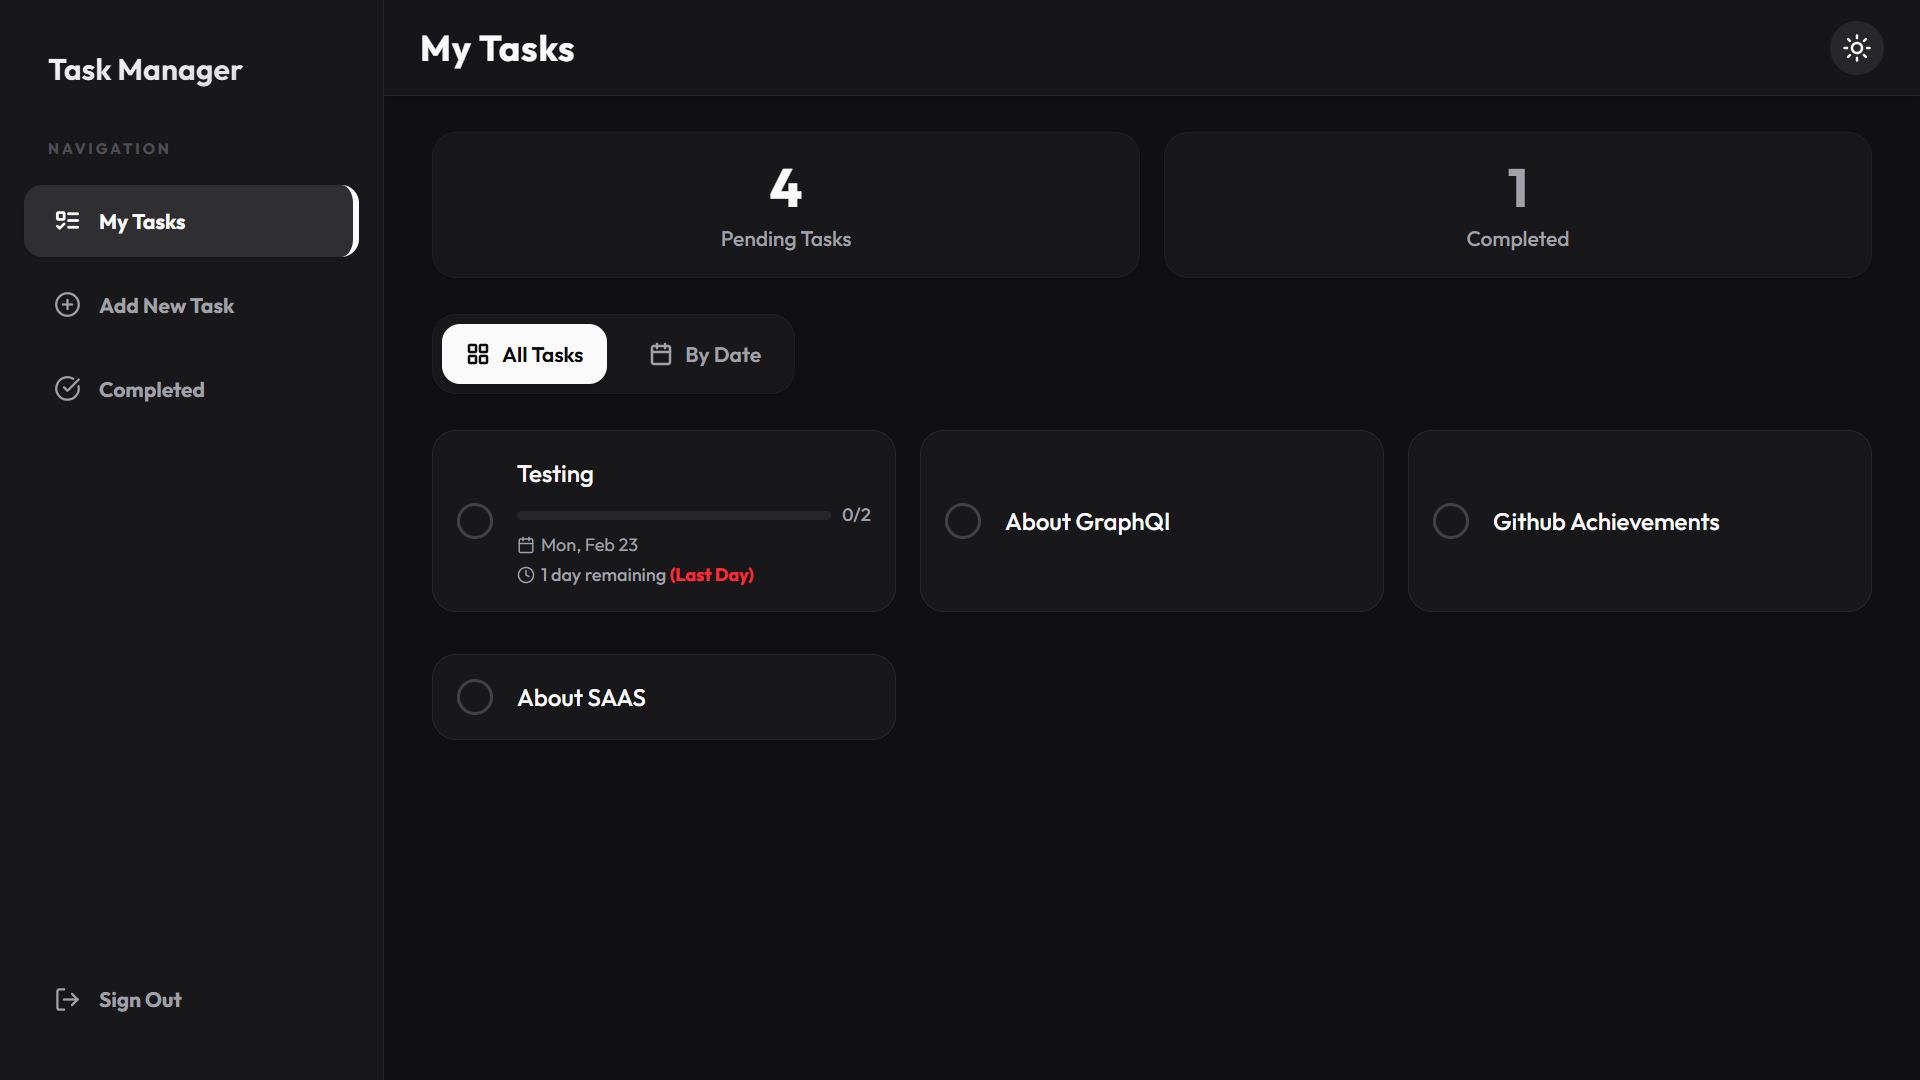
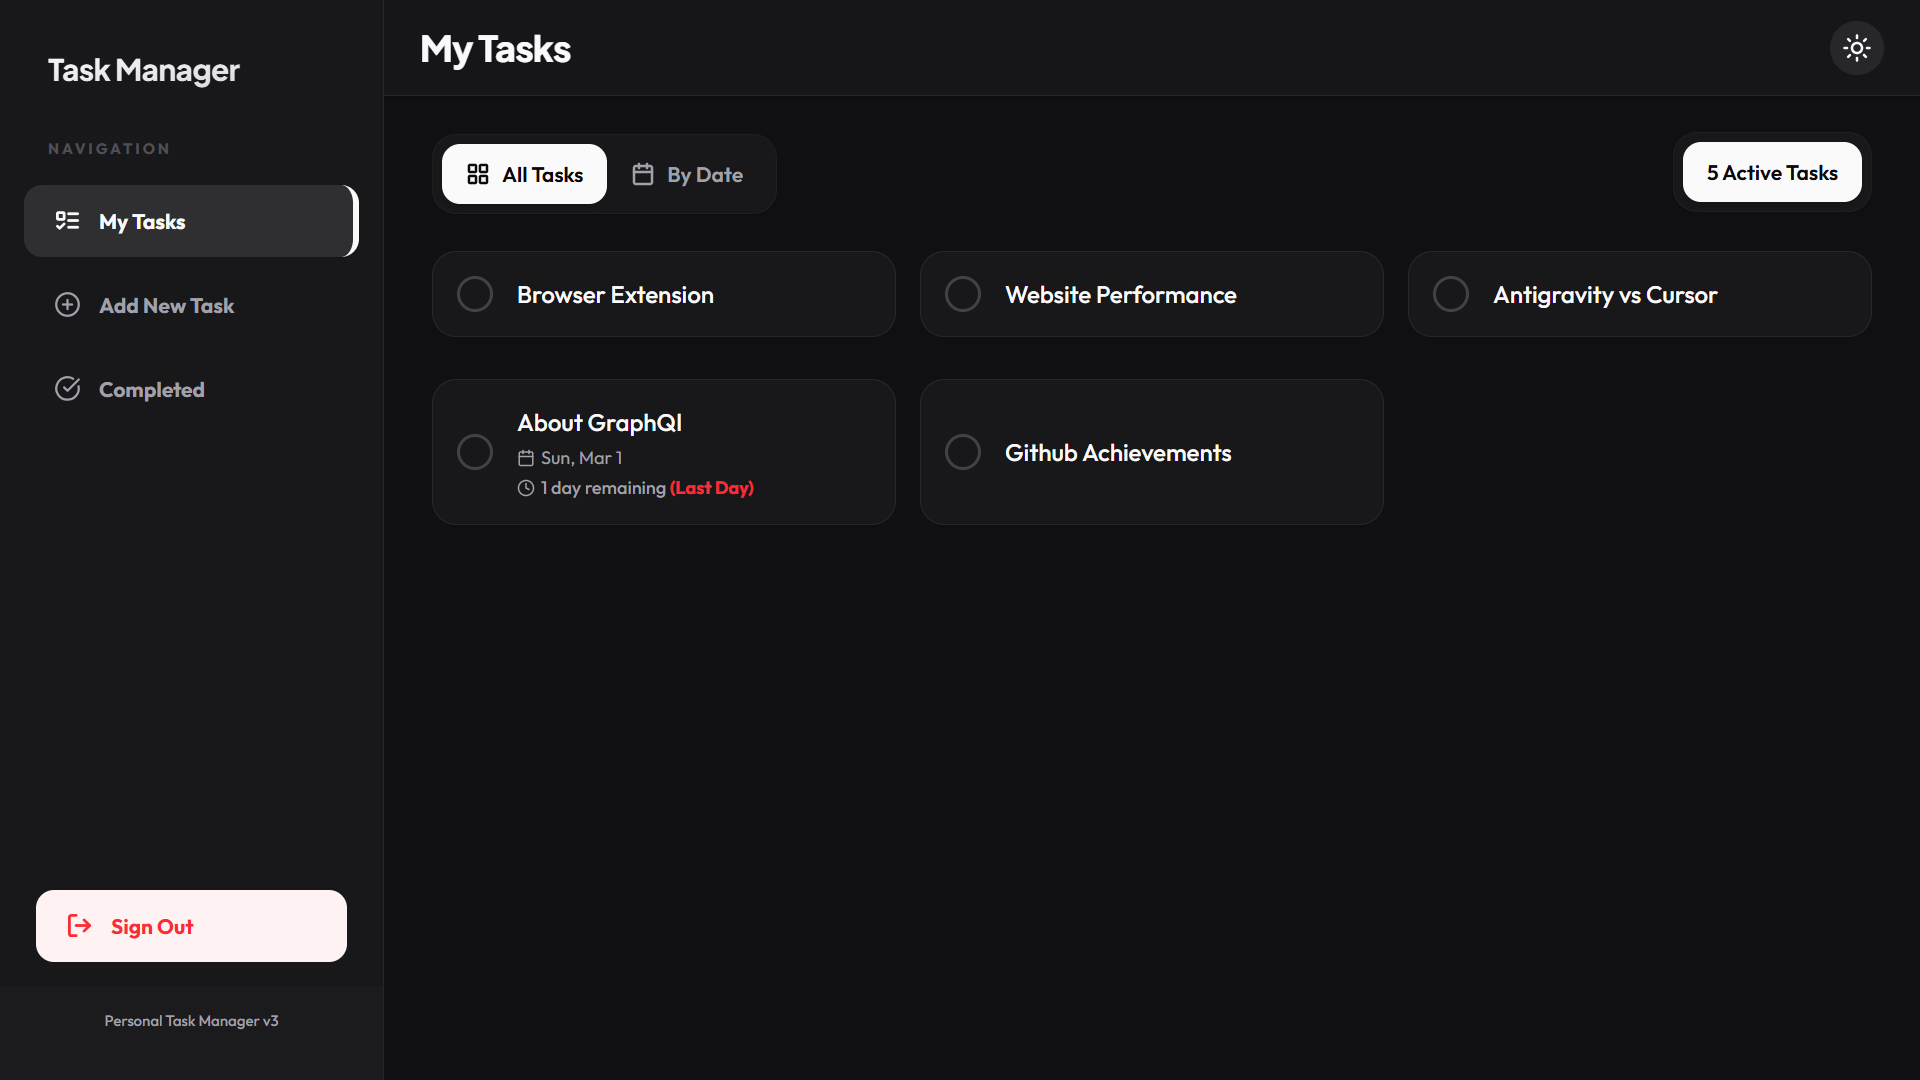
feat: refactor mobile navigation, align Active Tasks UI add Edit Task back button, and update README

diff --git a/src/components/Navbar.jsx b/src/components/Navbar.jsx
@@ -36,30 +36,6 @@ export default function Navbar() {
 
   return (
     <>
-      {/* Mobile Bottom Navigation Bar */}
-      <nav className="md:hidden fixed bottom-0 left-0 right-0 h-16 bg-surface/90 backdrop-blur-xl border-t border-border flex items-center justify-around px-2 z-50 pb-safe shadow-[0_-4px_12px_-1px_rgba(0,0,0,0.05)]">
-        {mainNavItems.map(({ to, icon: Icon, label }) => (
-          <NavLink
-            key={to}
-            to={to}
-            className={({ isActive }) =>
-              cn(
-                "flex flex-col items-center justify-center space-y-1 transition-all w-1/3 py-1",
-                isActive ? "text-primary scale-105" : "text-muted-foreground"
-              )
-            }
-          >
-            {({ isActive }) => (
-              <>
-                <Icon size={22} strokeWidth={isActive ? 2.5 : 2} />
-                <span className="text-[10px] font-bold uppercase tracking-tighter truncate w-full text-center px-1">
-                  {label}
-                </span>
-              </>
-            )}
-          </NavLink>
-        ))}
-      </nav>
 
       {/* Mobile Sidebar Overlay */}
       <AnimatePresence>
@@ -86,7 +62,7 @@ export default function Navbar() {
           >
             <div className="p-6 border-b border-border flex justify-between items-center bg-primary/5">
               <span className="text-sm font-black uppercase tracking-widest text-primary">
-                Account Settings
+                Navigation
               </span>
               <button
                 onClick={closeMobileSidebar}
@@ -98,6 +74,32 @@ export default function Navbar() {
             </div>
 
             <div className="flex-1 p-6 flex flex-col">
+              {/* Navigation Links */}
+              <div className="space-y-2 pt-2">
+                {mainNavItems.map(({ to, icon: Icon, label }) => (
+                  <NavLink
+                    key={to}
+                    to={to}
+                    onClick={closeMobileSidebar}
+                    className={({ isActive }) =>
+                      cn(
+                        "flex items-center space-x-3 w-full py-3.5 px-5 rounded-xl transition-all font-bold",
+                        isActive
+                          ? "text-primary bg-primary/10 shadow-sm"
+                          : "text-muted-foreground hover:text-primary hover:bg-surface-hover"
+                      )
+                    }
+                  >
+                    {({ isActive }) => (
+                      <>
+                        <Icon size={18} strokeWidth={isActive ? 2.5 : 2} />
+                        <span className="text-sm">{label}</span>
+                      </>
+                    )}
+                  </NavLink>
+                ))}
+              </div>
+
               <div className="mt-auto pt-6 border-t border-border">
                 <button
                   onClick={handleLogout}
@@ -110,7 +112,7 @@ export default function Navbar() {
             </div>
 
             <div className="p-6 bg-muted/20 text-[10px] text-center text-muted-foreground font-medium">
-              Personal Task Manager v2.0
+              Personal Task Manager v3
             </div>
           </motion.div>
         )}
@@ -119,7 +121,10 @@ export default function Navbar() {
       {/* Desktop Sidebar */}
       <nav className="hidden md:flex flex-col w-64 h-screen bg-surface border-r border-border sticky top-0 shrink-0 shadow-[4px_0_12px_-1px_rgba(0,0,0,0.02)]">
         <div className="p-8">
-          <h1 className="text-xl font-black bg-linear-to-br from-primary to-accent bg-clip-text text-transparent">
+          <h1
+            className="text-xl font-extrabold bg-linear-to-br from-primary to-accent bg-clip-text text-transparent tracking-tight"
+            style={{ fontFamily: "'Plus Jakarta Sans', sans-serif" }}
+          >
             Task Manager
           </h1>
         </div>
@@ -151,14 +156,19 @@ export default function Navbar() {
           ))}
         </div>
 
-        <div className="p-4 mt-auto space-y-2 pb-8">
-          <button
-            onClick={handleLogout}
-            className="flex items-center space-x-3 w-full py-3 px-5 rounded-xl text-muted-foreground hover:text-red-500 hover:bg-red-500/10 transition-all font-bold"
-          >
-            <LogOut size={18} />
-            <span className="text-sm">Sign Out</span>
-          </button>
+        <div className="mt-auto flex flex-col">
+          <div className="p-4 px-6">
+            <button
+              onClick={handleLogout}
+              className="flex items-center space-x-3 w-full py-3.5 px-5 rounded-xl text-red-500 bg-red-50 hover:bg-red-500 hover:text-white transition-all font-bold"
+            >
+              <LogOut size={18} strokeWidth={2.5} />
+              <span className="text-sm">Sign Out</span>
+            </button>
+          </div>
+          <div className="p-4 pb-8 bg-muted/20 text-[10px] text-center text-muted-foreground font-medium">
+            Personal Task Manager v3
+          </div>
         </div>
       </nav>
     </>

diff --git a/src/pages/Home.jsx b/src/pages/Home.jsx
@@ -12,7 +12,6 @@ export default function Home() {
   const [filterMode, setFilterMode] = useState("all"); // 'all' or 'by-date'
 
   const activeTasks = tasks.filter((t) => !t.completed);
-  const completedTasks = tasks.filter((t) => t.completed);
 
   // Group tasks by date
   const groupTasksByDate = (tasksList) => {
@@ -63,52 +62,42 @@ export default function Home() {
         </div>
       ) : activeTasks.length > 0 ? (
         <div className="space-y-6">
-          {/* Stats Dashboard */}
-          <div className="grid grid-cols-2 gap-4">
-            <div className="bg-surface p-4 rounded-2xl border border-border/50 shadow-sm flex flex-col items-center justify-center text-center">
-              <span className="text-4xl font-bold text-primary mb-1">
-                {activeTasks.length}
-              </span>
-              <span className="text-sm text-muted-foreground font-medium">
-                Pending Tasks
-              </span>
+          {/* Filter Toggle + Active Tasks */}
+          <div className="flex flex-col md:flex-row md:items-center md:justify-between gap-3">
+            {/* Filter Toggle */}
+            <div className="flex items-center bg-surface p-1.5 rounded-2xl border border-border/50 shadow-sm w-fit">
+              <button
+                onClick={() => setFilterMode("all")}
+                className={cn(
+                  "flex items-center gap-2 px-4 py-2.5 rounded-xl font-semibold text-sm transition-all duration-200",
+                  filterMode === "all"
+                    ? "bg-primary text-primary-foreground shadow-md"
+                    : "text-muted-foreground hover:text-primary hover:bg-surface-hover"
+                )}
+              >
+                <LayoutGrid size={16} strokeWidth={2.5} />
+                <span>All Tasks</span>
+              </button>
+              <button
+                onClick={() => setFilterMode("by-date")}
+                className={cn(
+                  "flex items-center gap-2 px-4 py-2.5 rounded-xl font-semibold text-sm transition-all duration-200",
+                  filterMode === "by-date"
+                    ? "bg-primary text-primary-foreground shadow-md"
+                    : "text-muted-foreground hover:text-primary hover:bg-surface-hover"
+                )}
+              >
+                <Calendar size={16} strokeWidth={2.5} />
+                <span>By Date</span>
+              </button>
             </div>
-            <div className="bg-surface p-4 rounded-2xl border border-border/50 shadow-sm flex flex-col items-center justify-center text-center">
-              <span className="text-4xl font-bold text-muted-foreground mb-1">
-                {completedTasks.length}
-              </span>
-              <span className="text-sm text-muted-foreground font-medium">
-                Completed
-              </span>
-            </div>
-          </div>
 
-          {/* Filter Toggle */}
-          <div className="flex items-center gap-3 bg-surface p-1.5 rounded-2xl border border-border/50 shadow-sm w-fit">
-            <button
-              onClick={() => setFilterMode("all")}
-              className={cn(
-                "flex items-center gap-2 px-4 py-2.5 rounded-xl font-semibold text-sm transition-all duration-200",
-                filterMode === "all"
-                  ? "bg-primary text-primary-foreground shadow-md"
-                  : "text-muted-foreground hover:text-primary hover:bg-surface-hover"
-              )}
-            >
-              <LayoutGrid size={16} strokeWidth={2.5} />
-              <span>All Tasks</span>
-            </button>
-            <button
-              onClick={() => setFilterMode("by-date")}
-              className={cn(
-                "flex items-center gap-2 px-4 py-2.5 rounded-xl font-semibold text-sm transition-all duration-200",
-                filterMode === "by-date"
-                  ? "bg-primary text-primary-foreground shadow-md"
-                  : "text-muted-foreground hover:text-primary hover:bg-surface-hover"
-              )}
-            >
-              <Calendar size={16} strokeWidth={2.5} />
-              <span>By Date</span>
-            </button>
+            {/* Active Tasks */}
+            <div className="bg-surface p-1.5 rounded-2xl border border-border/50 shadow-sm w-fit mb-0.5">
+              <span className="flex items-center px-4 py-2.5 rounded-xl font-semibold text-sm bg-primary text-primary-foreground shadow-md">
+                {activeTasks.length} Active Tasks
+              </span>
+            </div>
           </div>
 
           {/* Tasks Display */}

diff --git a/src/components/Layout.jsx b/src/components/Layout.jsx
@@ -18,7 +18,7 @@ export default function Layout({ children, title }) {
       {/* Sidebar only renders here on desktop due to CSS in Navbar, but Navbar is fixed bottom on mobile */}
       <Navbar />
 
-      <div className="flex-1 w-full min-h-screen bg-background md:bg-surface/50 flex flex-col relative pb-24 md:pb-0 overflow-hidden">
+      <div className="flex-1 w-full min-h-screen bg-background md:bg-surface/50 flex flex-col relative overflow-hidden">
         {/* Header */}
         <header className="px-4 py-3 md:px-6 md:py-4 flex items-center justify-between bg-surface/80 backdrop-blur-md sticky top-0 z-40 border-b border-border shadow-sm h-16">
           {/* Hamburger Menu (Mobile) */}
@@ -32,7 +32,10 @@ export default function Layout({ children, title }) {
 
           {/* Main Heading - Centered on Mobile (adjusted for button presence) */}
           <div className="flex-1 min-w-0 flex items-center">
-            <h1 className="text-lg sm:text-xl md:text-2xl font-bold text-primary tracking-wide truncate">
+            <h1
+              className="text-lg sm:text-xl md:text-2xl font-extrabold text-primary tracking-tight truncate"
+              style={{ fontFamily: "'Plus Jakarta Sans', sans-serif" }}
+            >
               {title || "Task Manager"}
             </h1>
           </div>

diff --git a/src/pages/EditTask.jsx b/src/pages/EditTask.jsx
@@ -3,7 +3,7 @@ import { useTasks } from "../context/TaskContext";
 import { useNavigate, useParams } from "react-router-dom";
 import Layout from "../components/Layout";
 import { format, endOfDay } from "date-fns";
-import { Calendar as CalendarIcon, Plus, CheckSquare } from "lucide-react";
+import { Calendar as CalendarIcon, Plus, CheckSquare, ArrowLeft } from "lucide-react";
 import SubtaskEditItem from "../components/SubtaskEditItem";
 
 export default function EditTask() {
@@ -125,6 +125,16 @@ export default function EditTask() {
   return (
     <Layout title="Edit Task">
       <form onSubmit={handleSubmit} className="space-y-6 mt-4">
+        {/* Back Button */}
+        <button
+          type="button"
+          onClick={() => navigate(-1)}
+          className="flex items-center gap-2 px-4 py-3 bg-transparent border border-border/60 text-muted-foreground hover:bg-muted/50 hover:text-foreground rounded-2xl transition-all font-semibold active:scale-95 group self-start"
+        >
+          <ArrowLeft size={20} className="transition-transform group-hover:-translate-x-1" />
+          <span>Back</span>
+        </button>
+
         {/* Heading Field */}
         <div className="space-y-2">
           <label className="text-sm font-medium text-muted-foreground">

diff --git a/src/index.css b/src/index.css
@@ -1,5 +1,6 @@
 @import "tailwindcss";
-@import url("https://fonts.googleapis.com/css2?family=Outfit:wght@300;400;500;600;700&display=swap");
+@import url("https://fonts.googleapis.com/css2?family=Outfit:wght@300;400;500;600;700&family=Plus+Jakarta+Sans:wght@500;600;700;800&display=swap");
+
 
 @variant dark (&:where(.dark, .dark *));
 
@@ -84,4 +85,12 @@
     display: none;
     -webkit-appearance: none;
   }
+}
+
+/* ─── Animations ─── */
+@keyframes fire-flicker {
+  0%, 100% { transform: scale(1) rotate(-1deg); }
+  25% { transform: scale(1.15) rotate(2deg); }
+  50% { transform: scale(0.95) rotate(-2deg); }
+  75% { transform: scale(1.1) rotate(1deg); }
 }

diff --git a/README.md b/README.md
@@ -36,7 +36,7 @@
 
 This isn't just another to-do app—it's a **showcase of modern web development best practices**:
 
-- ⚡ **Blazing Fast** - Built with Vite 7 for instant updates and optimal performance
+- ⚡ **Blazing Fast** - Built with Vite for instant updates and optimal performance
 - 📱 **True PWA** - Install on any device, works offline like a native app
 - 🎨 **Premium UI/UX** - Thoughtfully designed with smooth animations and delightful interactions
 - 🔒 **Enterprise-Grade Security** - Multi-layer authentication with Firestore security rules
@@ -77,7 +77,7 @@ This isn't just another to-do app—it's a **showcase of modern web development 
   - **By Date**: Smart grouping with "Today", "Yesterday", and full date labels
 - **Subtasks / Checklist** - Break down tasks into smaller actionable items with checkboxes
 - **Deadline Tracking** - Visual indicators for overdue, urgent, and upcoming tasks
-- **Quick Statistics** - Real-time overview of pending and completed tasks
+- **Active Tasks Counter** - Real-time overview of your active tasks
 - **One-Click Actions** - Mark complete, edit, or delete with smooth animations
 - **Detailed Task View** - Rich descriptions with formatted dates and times
 
@@ -105,7 +105,7 @@ This isn't just another to-do app—it's a **showcase of modern web development 
   - Light Mode: Fresh green palette for energetic daytime work
   - Dark Mode: Professional black theme for comfortable night use
   - System Auto-detect: Matches your OS preference automatically
-- **Responsive Layout** - Adapts beautifully from phone to ultrawide displays
+- **Responsive Layout** - Sidebar navigation on desktop, slide-out menu on mobile
 - **Toast Notifications** - Instant feedback for every action
 - **Confirmation Dialogs** - Prevents accidental deletions
 
@@ -115,7 +115,7 @@ This isn't just another to-do app—it's a **showcase of modern web development 
 - **Offline-First** - All features work without internet
 - **Fast Loading** - Service worker caches key assets
 - **Auto Updates** - Always get the latest features seamlessly
-- **Mobile Optimized** - Bottom navigation for easy thumb access
+- **Mobile Optimized** - Sidebar navigation with hamburger menu for clean mobile UX
 
 ---
 
@@ -253,10 +253,13 @@ Personal-Task-Manager/
 │   ├── 📁 assets/          # Images & icons
 │   ├── 📁 components/      # Reusable UI components
 │   │   ├── ConfirmDialog.jsx
+│   │   ├── InstallPrompt.jsx
 │   │   ├── Layout.jsx
 │   │   ├── Navbar.jsx
 │   │   ├── OfflineIndicator.jsx
 │   │   ├── ProtectedRoute.jsx
+│   │   ├── SecurityRoute.jsx
+│   │   ├── SubtaskEditItem.jsx
 │   │   ├── TaskCard.jsx
 │   │   └── ThemeToggle.jsx
 │   │
